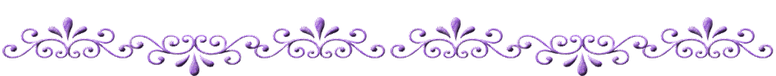
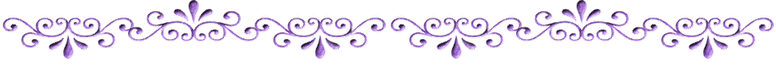
commit 772

Changed region(s): [[0.0, 0.0, 1.0, 1.0]]

diff --git a/_posts/blog/2017-07-24-Fussilet-Suresi.md b/_posts/blog/2017-07-24-Fussilet-Suresi.md
@@ -9,7 +9,7 @@ tag:
 ---
 
 ## 41. Fussilet Sûresi
-![]({{site.url}}/images/altkenar.png)
+![]({{site.url}}/images/ustkenar.png)
 
 **(1)** Hâ Mîm
 **(2)** Rahmandan Rahim(den) indirilmiştir
